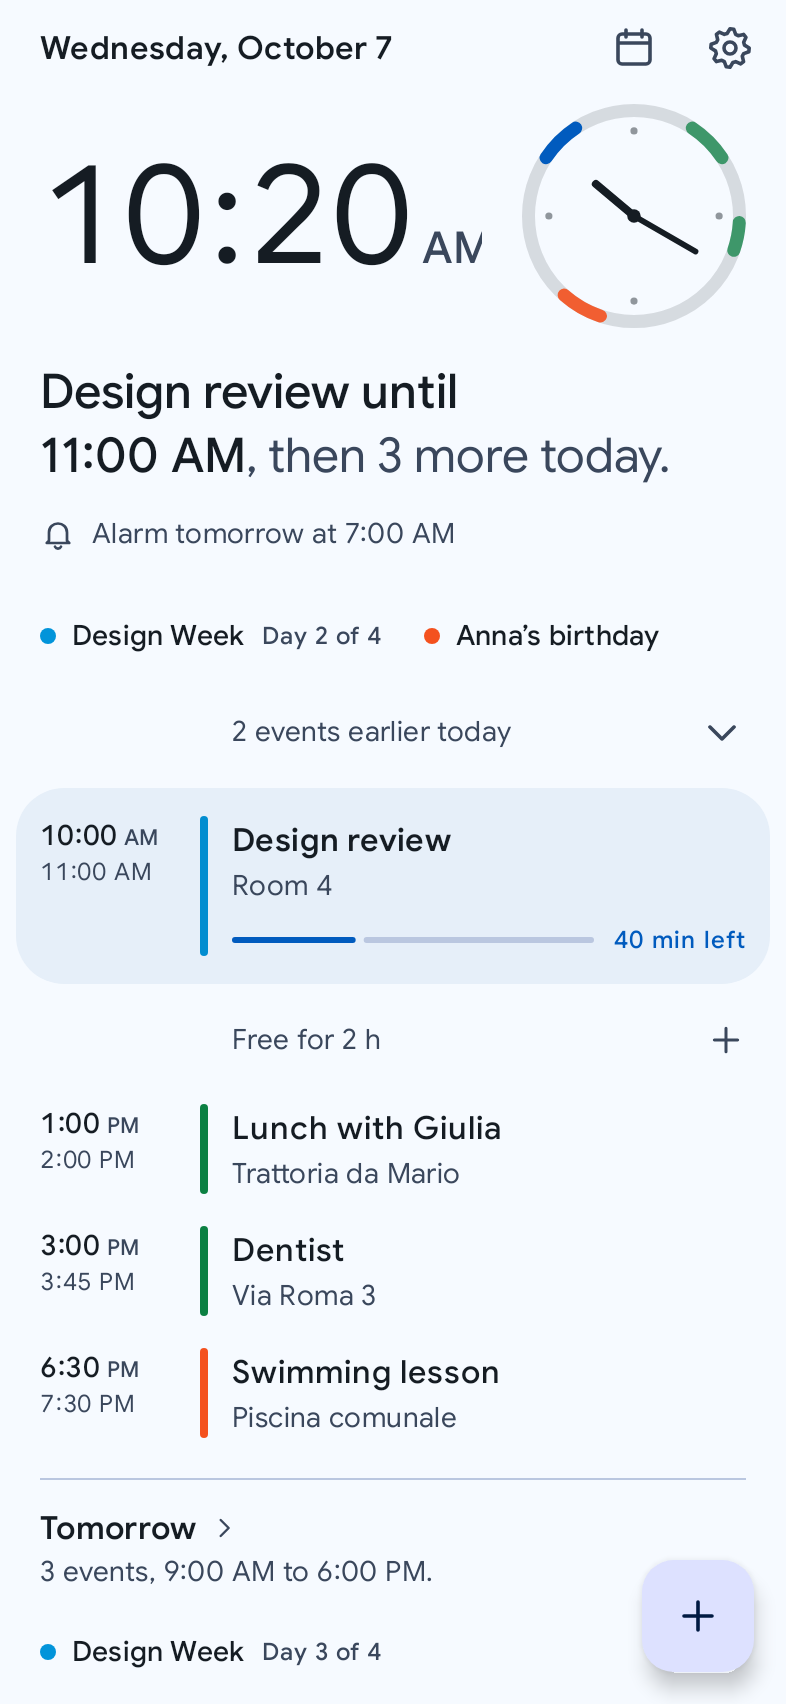
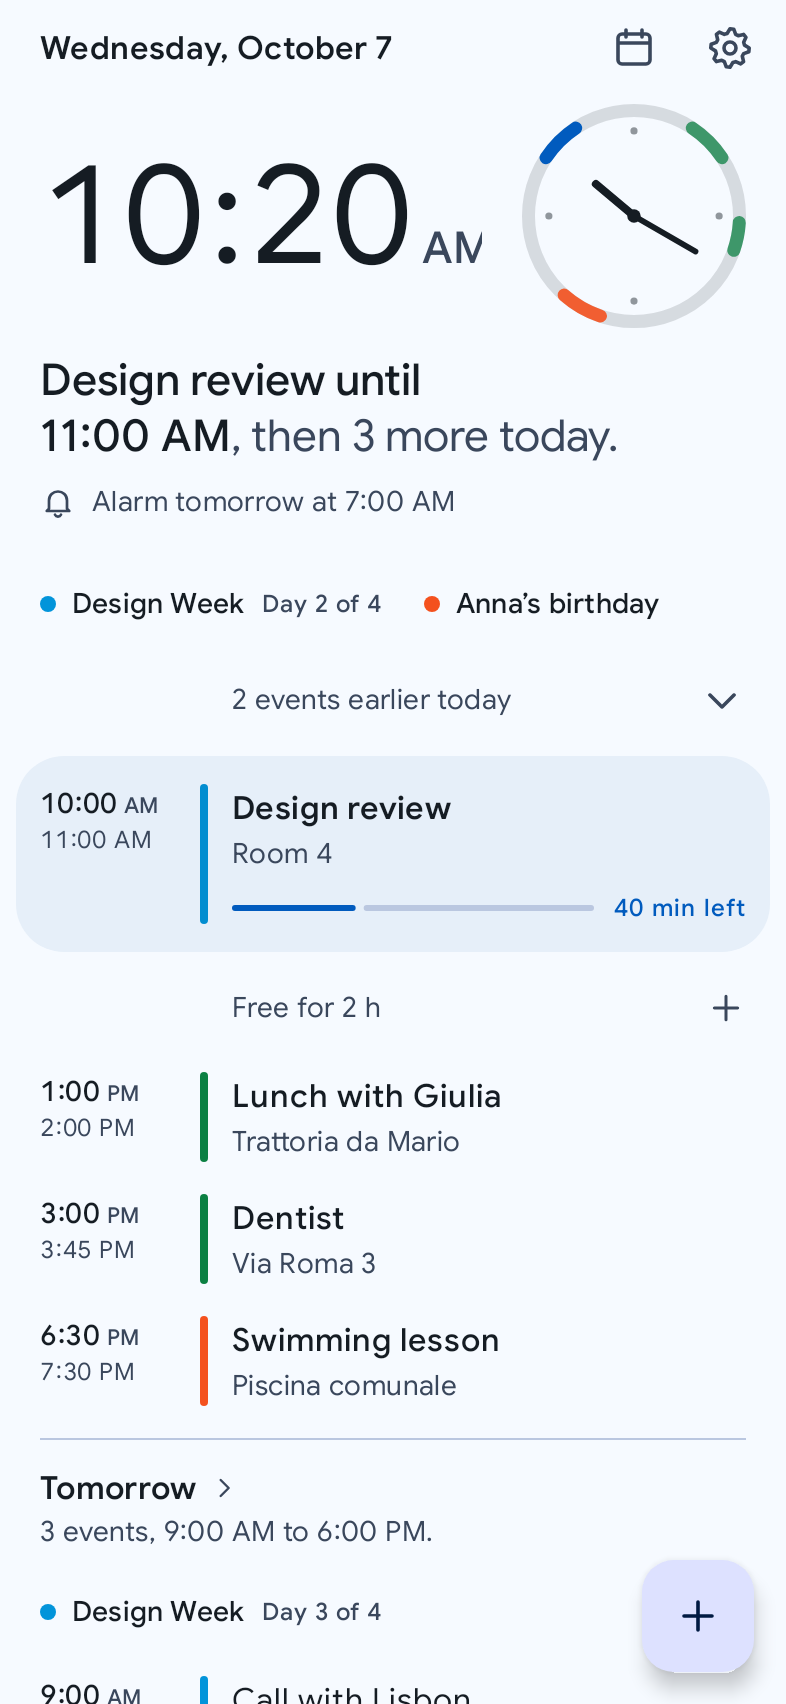
Today: the sentence at the title's size, tighter gaps between the blocks
The owner asked whether the vertical spacing could give room back within
Material 3 (PLANNING.md §15, 10 Nov 2026). The rows are already at their 48 dp
touch; the room was in the sentence (titleLarge again, its first clause told
apart by weight) and between the hero's blocks and the days ahead.

Claude-Session: https://claude.ai/code/session_016e4mBJd5VxQ4o4Aq2hHxor

diff --git a/feature/today/src/main/kotlin/com/callbackdev/tempo/feature/today/TodayScreen.kt b/feature/today/src/main/kotlin/com/callbackdev/tempo/feature/today/TodayScreen.kt
@@ -646,8 +646,8 @@ private fun Hero(
             .fillMaxWidth()
             .padding(gutter)
             // Room under the alarm line for its touch, which reaches past its words, clear of
-            // the all-day events' under it.
-            .padding(bottom = 16.dp),
+            // the all-day events' under it; with no such line the list comes closer.
+            .padding(bottom = if (state.alarm != null && state.doors.clockPackage != null) 16.dp else 8.dp),
     ) {
         Row(
             verticalAlignment = Alignment.CenterVertically,
@@ -708,11 +708,17 @@ private fun Hero(
                         append(sentence.rest)
                     }
                 },
-                // Balanced lines: the sentence never leaves its last word alone on a line.
-                style = MaterialTheme.typography.headlineSmall.copy(lineBreak = LineBreak.Heading),
+                // Balanced lines: the sentence never leaves its last word alone on a line. At the
+                // title's size, its first clause told apart by weight and ink: a size larger, a
+                // long sentence ("Oggi non resta altro; domani si comincia alle 10:00 con…") took
+                // four lines and a sixth of the first screen (PLANNING.md §15, 10 Nov 2026).
+                style = MaterialTheme.typography.titleLarge.copy(
+                    fontWeight = FontWeight.Normal,
+                    lineBreak = LineBreak.Heading,
+                ),
                 color = quiet,
                 modifier = Modifier
-                    .padding(start = HERO_EDGE, end = HERO_EDGE, top = 16.dp, bottom = 4.dp)
+                    .padding(start = HERO_EDGE, end = HERO_EDGE, top = 12.dp)
                     .testTag(TodayTags.SENTENCE),
             )
         }
@@ -1176,7 +1182,7 @@ private fun DayAhead(
     content: @Composable () -> Unit,
 ) {
     val openLabel = stringResource(R.string.today_open_day)
-    Column(modifier.fillMaxWidth().padding(top = 12.dp)) {
+    Column(modifier.fillMaxWidth().padding(top = 8.dp)) {
         HorizontalDivider(
             color = MaterialTheme.colorScheme.outlineVariant,
             modifier = Modifier.padding(horizontal = ROW_EDGE),

diff --git a/PLANNING.md b/PLANNING.md
@@ -680,3 +680,35 @@ follows «Today reviewed», above, and corrects what that entry built.
 **Checked.** `TodayScreenTest`: the days ahead in Italian (no "Tutto il giorno" as a text, the
 run's name whole, the screenshot looked at), every walk again. The README's pictures redrawn.
 
+### Today's vertical rhythm, and the sentence's size (owner, 10 Nov 2026)
+
+**Where it comes from.** The owner, with the page right on the phone ("Ora va bene."), asked
+whether the rows' vertical spacing is right or room can be recovered within Material 3's
+guidance, keeping the page premium, and to check the sizes of the clock and the sentence.
+
+**What was measured** (411 dp wide, the tests' phone). The rows are already at or under
+Material's list heights and cannot give more without losing the 48 dp touch: a one-line row
+(all-day events, "earlier", free, a later day's event) is 48 dp where Material's is 56; a two-line
+event is 61 dp where Material's is 72; the event under way keeps 14 dp inside its ground. What
+could be recovered was between the blocks and in the sentence.
+
+**What changed.**
+
+- **The sentence is `titleLarge` again (22/28), regular, its first clause medium and in ink.**
+  «Today reviewed» (above) had set it at `headlineSmall` (24/32): with the first clause told
+  apart by weight and ink it does not need the size, and a long sentence in Italian took four
+  lines, 128 dp of the first screen; it takes three or four of 28 now, and most days two.
+- **The clock stays at 80 sp, regular**: 3.6 times the sentence, the one large thing on the page;
+  it already shrinks to fit beside the dial and is capped at 104 dp for a large text size.
+- **Gaps**: the sentence 12 dp under the clock's row (16); nothing added under it before the
+  alarm (4 dp less); the hero keeps 16 dp under the alarm line only where that line is a door (its
+  touch must stand clear of the all-day events'), 8 dp otherwise; a day ahead starts 8 dp under the
+  rows before it (12).
+
+About 20 dp recovered on the first screen on a usual day (measured: the event under way
+stands 16 dp higher, the days ahead 20), more on a long sentence; one more row of tomorrow is in
+sight.
+
+**Checked.** `TodayScreenTest` whole (touch targets at every walk), the screenshots looked at; the
+README's pictures redrawn.
+
